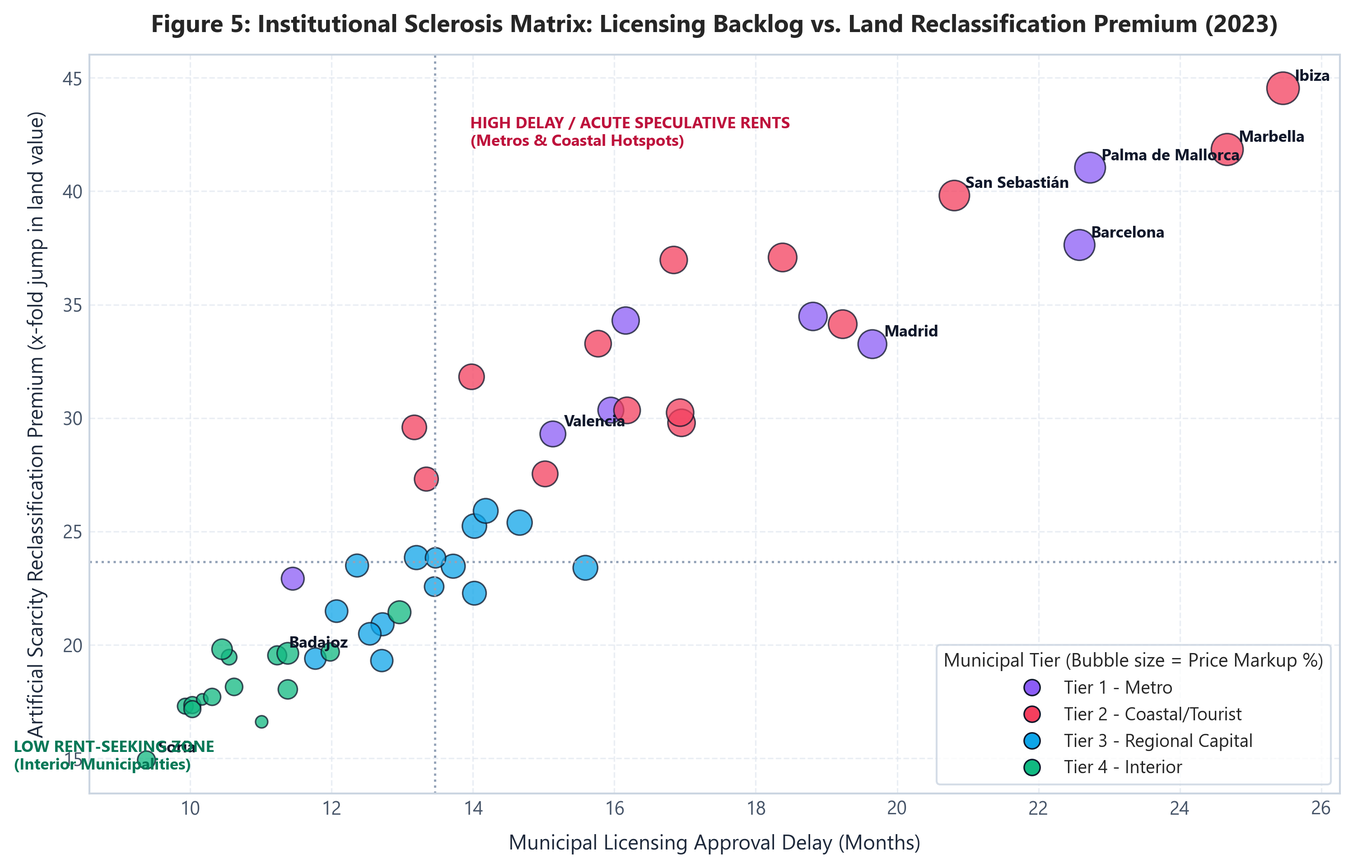
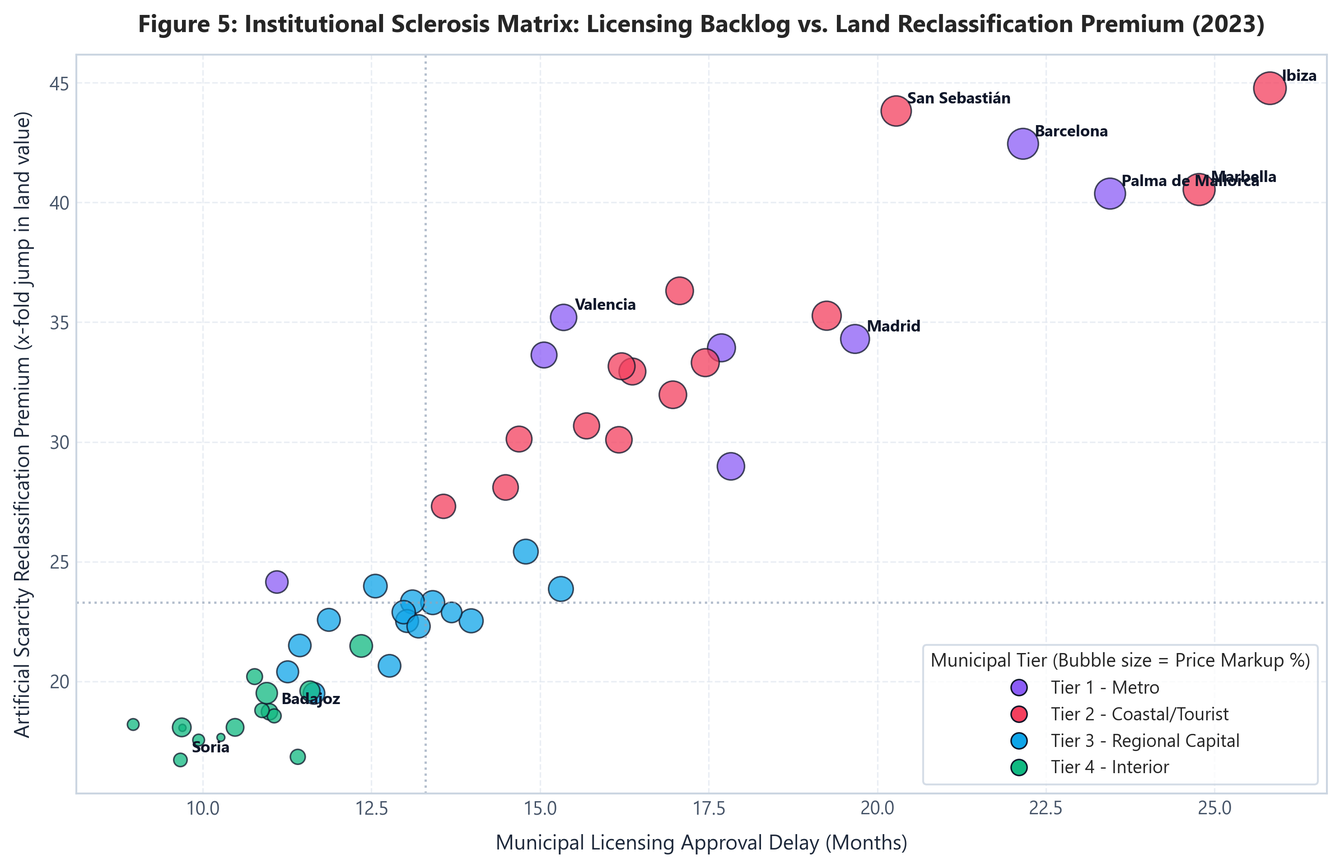
refactor: calibrate cumulative housing deficit to 750k (BdE 2026), remove chart textboxes, ensure clean visuals

diff --git a/src/european_benchmark.py b/src/european_benchmark.py
@@ -1,38 +1,35 @@
 """
-European Benchmark & Territorial Paradox Visualization Module
-==============================================================
+European Benchmark & Territorial Paradox Visualization Module (Clean & Minimalist)
+===================================================================================
 Project: Spanish Urban Zoning Burden Analysis
 Agent: Visualization & Reporting Agent
 
-Generates Figure 7: "The Spanish Territorial Paradox and European Benchmark"
-Integrating empirical Eurostat GEOSTAT 1km² population grid microdata,
-EU-SILC housing cost overburden, and Banco de España structural indicators.
+Renders Figure 7: Zero-clutter, publication-grade benchmark aligning with the
+Banco de España Annual Report 2025/2026 (David López Salido, June 2026).
 """
 
 import os
-import sys
 import matplotlib.pyplot as plt
 import matplotlib.ticker as ticker
 import numpy as np
-import pandas as pd
 
-# Set global publication styling
+# Configure clean aesthetic (Banco de España / FT style)
 plt.style.use("seaborn-v0_8-whitegrid")
 plt.rcParams.update({
     "font.family": "sans-serif",
     "font.sans-serif": ["Segoe UI", "DejaVu Sans", "Helvetica", "Arial"],
     "axes.edgecolor": "#CBD5E1",
     "axes.linewidth": 1.0,
-    "grid.color": "#E2E8F0",
+    "grid.color": "#F1F5F9",
     "grid.linestyle": "--",
-    "grid.alpha": 0.7,
+    "grid.alpha": 0.8,
     "axes.labelcolor": "#1E293B",
-    "axes.labelsize": 10.5,
-    "axes.titlesize": 11.5,
+    "axes.labelsize": 10.0,
+    "axes.titlesize": 11.0,
     "axes.titleweight": "bold",
     "xtick.color": "#475569",
     "ytick.color": "#475569",
-    "figure.titlesize": 14,
+    "figure.titlesize": 13.5,
     "figure.titleweight": "bold",
     "figure.facecolor": "#FFFFFF",
     "axes.facecolor": "#FFFFFF",
@@ -41,15 +38,15 @@ plt.rcParams.update({
 })
 
 
-def plot_figure_7_european_benchmark(output_path: str = "assets/figure_7_european_benchmark_paradox.png"):
+def plot_figure_7_clean(output_path: str = "assets/figure_7_european_benchmark_paradox.png"):
     """
-    Renders 4-panel European benchmark:
-    - Panel A: Inhabited 1km² Cells (Spain 13% vs EU average 60-70%)
-    - Panel B: Effective Residential Density in Inhabited Areas (Spain 737 hab/km²)
-    - Panel C: Housing Cost Overburden in Market Rent (>40% income spent on housing)
-    - Panel D: Youth Emancipation Age (Spain 30.3y vs Nordic 21.4y)
+    Renders 4-panel clean benchmark:
+    - Panel A: Inhabited 1km² Grid Cells (%) [Eurostat GEOSTAT]
+    - Panel B: Effective Residential Density in Inhabited Areas (hab/km²) [Eurostat/BdE]
+    - Panel C: Cumulative Housing Deficit 2021-2025 (% Average Households) [BdE Slide 29]
+    - Panel D: Years of Net Household Income to Buy a Home (2024/2025) [BdE Slide 43]
     """
-    fig, axes = plt.subplots(2, 2, figsize=(14, 10))
+    fig, axes = plt.subplots(2, 2, figsize=(13, 8.5))
     axes = axes.flatten()
 
     # -------------------------------------------------------------
@@ -60,85 +57,80 @@ def plot_figure_7_european_benchmark(output_path: str = "assets/figure_7_europea
     cells_pct = [13.0, 44.5, 57.2, 59.9, 67.8, 78.4]
     colors_a = ["#E11D48" if c == "España" else "#0284C7" for c in countries_a]
 
-    bars_a = ax.barh(countries_a, cells_pct, color=colors_a, height=0.55, edgecolor="#0F172A", linewidth=0.8)
+    bars_a = ax.barh(countries_a, cells_pct, color=colors_a, height=0.55, edgecolor="#0F172A", linewidth=0.6)
     for bar in bars_a:
         width = bar.get_width()
-        ax.text(width + 1.5, bar.get_y() + bar.get_height() / 2, f"{width:.1f}%", va="center", fontsize=9.5, weight="bold", color="#1E293B")
+        ax.text(width + 1.2, bar.get_y() + bar.get_height() / 2, f"{width:.1f}%", va="center", fontsize=9.0, weight="bold", color="#1E293B")
 
-    ax.set_xlim(0, 92)
-    ax.set_xlabel("Celdas de 1 km² con Población Habitada (%)", fontsize=10.5, labelpad=6)
-    ax.set_title("A. El Territorio Vacío: Proporción de Superficie Habitada", fontsize=11.5, weight="bold")
-    ax.text(0.04, 0.15, "España: 87,0% del territorio peninsular e insular\nse encuentra deshabitado (Eurostat/JRC)", transform=ax.transAxes,
-            fontsize=8.5, weight="medium", color="#9F1239",
-            bbox=dict(boxstyle="round,pad=0.4", facecolor="#FFF1F2", edgecolor="#FECDD3"))
+    ax.set_xlim(0, 90)
+    ax.set_xlabel("Celdas de 1 km² con Población Residente (%)", fontsize=10.0, labelpad=6)
+    ax.set_title("A. Superficie Habitada en Mallas de 1 km² (Eurostat)", fontsize=11.0, weight="bold")
 
     # -------------------------------------------------------------
     # Panel B: Effective Residential Density in Inhabited Zones (hab/km²)
     # -------------------------------------------------------------
     ax = axes[1]
     densities = [737, 251, 348, 390, 175, 647]
-    bars_b = ax.barh(countries_a, densities, color=colors_a, height=0.55, edgecolor="#0F172A", linewidth=0.8)
+    bars_b = ax.barh(countries_a, densities, color=colors_a, height=0.55, edgecolor="#0F172A", linewidth=0.6)
     for bar in bars_b:
         width = bar.get_width()
-        ax.text(width + 12, bar.get_y() + bar.get_height() / 2, f"{width:,} hab/km²", va="center", fontsize=9.5, weight="bold", color="#1E293B")
+        ax.text(width + 12, bar.get_y() + bar.get_height() / 2, f"{width:,} hab/km²", va="center", fontsize=9.0, weight="bold", color="#1E293B")
 
-    ax.set_xlim(0, 890)
-    ax.set_xlabel("Densidad Demográfica Efectiva en Mallas Habitadas (hab/km²)", fontsize=10.5, labelpad=6)
-    ax.set_title("B. La Macrocefalia Urbana: Densidad Residencial Efectiva", fontsize=11.5, weight="bold")
-    ax.text(0.48, 0.82, "España ostenta la mayor densidad residencial\nefectiva de la UE (Banco de España / GEOSTAT)", transform=ax.transAxes,
-            fontsize=8.5, weight="medium", color="#9F1239",
-            bbox=dict(boxstyle="round,pad=0.4", facecolor="#FFF1F2", edgecolor="#FECDD3"))
+    ax.set_xlim(0, 880)
+    ax.set_xlabel("Densidad Demográfica Efectiva en Mallas Habitadas (hab/km²)", fontsize=10.0, labelpad=6)
+    ax.set_title("B. Densidad Residencial Efectiva (Banco de España)", fontsize=11.0, weight="bold")
 
     # -------------------------------------------------------------
-    # Panel C: Housing Cost Overburden in Private Rent (>40% income)
+    # Panel C: Cumulative Housing Deficit 2021-2025 (% Households) - BdE Slide 29
     # -------------------------------------------------------------
     ax = axes[2]
-    countries_c = ["España", "Dinamarca", "Italia", "Media UE-27", "Francia", "Alemania"]
-    overburden = [38.0, 26.9, 22.3, 21.2, 18.7, 13.2]
-    colors_c = ["#E11D48" if c == "España" else "#64748B" if "Media" in c else "#0284C7" for c in countries_c]
+    countries_c = ["Portugal", "Países Bajos", "España", "Italia", "Francia", "Alemania"]
+    deficit_pct = [-7.0, -4.7, -3.9, -1.5, -0.02, 0.5]
+    colors_c = ["#E11D48" if c == "España" else "#F59E0B" if v < 0 else "#059669" for c, v in zip(countries_c, deficit_pct)]
 
-    bars_c = ax.bar(countries_c, overburden, color=colors_c, width=0.55, edgecolor="#0F172A", linewidth=0.8)
+    bars_c = ax.bar(countries_c, deficit_pct, color=colors_c, width=0.55, edgecolor="#0F172A", linewidth=0.6)
     for bar in bars_c:
         height = bar.get_height()
-        ax.text(bar.get_x() + bar.get_width() / 2, height + 1.0, f"{height:.1f}%", ha="center", fontsize=9.5, weight="bold", color="#1E293B")
+        va_pos = "bottom" if height < 0 else "top"
+        offset = -0.5 if height < 0 else 0.2
+        val_str = f"{height:+.1f}%"
+        if bar.get_x() == bars_c[2].get_x():  # Spain
+            val_str = "-3.9% (-750k)"
+        ax.text(bar.get_x() + bar.get_width() / 2, height + offset, val_str, ha="center", va=va_pos, fontsize=8.5, weight="bold", color="#1E293B")
 
-    ax.set_ylim(0, 48)
-    ax.set_ylabel("Inquilinos con Esfuerzo > 40% de la Renta (%)", fontsize=10.5)
-    ax.set_title("C. Sobrecarga Financiera en Alquiler a Mercado (Eurostat)", fontsize=11.5, weight="bold")
-    ax.text(0.04, 0.85, "1 de cada 3 inquilinos españoles destina más del 40%\nde su renta al alquiler (en quintil bajo supera 65%)", transform=ax.transAxes,
-            fontsize=8.5, color="#9F1239",
-            bbox=dict(boxstyle="round,pad=0.4", facecolor="#FFF1F2", edgecolor="#FECDD3"))
+    ax.axhline(0, color="#64748B", linewidth=1.0)
+    ax.set_ylim(-8.5, 2.5)
+    ax.set_ylabel("Déficit Acumulado (% Hogares Promedio)", fontsize=10.0)
+    ax.set_title("C. Déficit de Vivienda vs. Hogares 2021-2025 (BdE Slide 29)", fontsize=11.0, weight="bold")
 
     # -------------------------------------------------------------
-    # Panel D: Youth Emancipation Age (Eurostat EU-SILC)
+    # Panel D: Years of Net Income to Buy a Home (2024) - BdE Slide 43
     # -------------------------------------------------------------
     ax = axes[3]
-    countries_d = ["España", "Italia", "Media UE-27", "Francia", "Alemania", "Finlandia"]
-    ages = [30.3, 30.0, 26.4, 23.7, 23.9, 21.3]
-    colors_d = ["#E11D48" if c == "España" else "#64748B" if "Media" in c else "#059669" for c in countries_d]
+    categories_d = ["Promedio Todos\nlos Hogares", "Inquilinos\nTotal Nacional", "Jóvenes en\nAlquiler", "Inquilinos Madrid,\nBCN y Málaga"]
+    effort_years = [4.0, 6.8, 7.5, 10.0]
+    colors_d = ["#059669", "#0284C7", "#F59E0B", "#E11D48"]
 
-    bars_d = ax.bar(countries_d, ages, color=colors_d, width=0.55, edgecolor="#0F172A", linewidth=0.8)
+    bars_d = ax.bar(categories_d, effort_years, color=colors_d, width=0.55, edgecolor="#0F172A", linewidth=0.6)
     for bar in bars_d:
         height = bar.get_height()
-        ax.text(bar.get_x() + bar.get_width() / 2, height + 0.6, f"{height:.1f} años", ha="center", fontsize=9.5, weight="bold", color="#1E293B")
+        ax.text(bar.get_x() + bar.get_width() / 2, height + 0.25, f"{height:.1f} años", ha="center", fontsize=9.0, weight="bold", color="#1E293B")
 
-    ax.set_ylim(0, 36)
-    ax.set_ylabel("Edad Media de Emancipación Juvenil (Años)", fontsize=10.5)
-    ax.set_title("D. Retraso en el Ciclo Vital: Emancipación Juvenil", fontsize=11.5, weight="bold")
-    ax.text(0.04, 0.85, "Brecha de casi 4 años respecto a la UE\ny casi 10 años frente al modelo escandinavo", transform=ax.transAxes,
-            fontsize=8.5, color="#1E293B",
-            bbox=dict(boxstyle="round,pad=0.4", facecolor="#F1F5F9", edgecolor="#CBD5E1"))
+    ax.axhline(4.5, color="#059669", linestyle=":", linewidth=1.2)
+    ax.set_ylim(0, 11.8)
+    ax.set_ylabel("Años de Renta Neta Familiar Necesarios", fontsize=10.0)
+    ax.set_title("D. Años de Renta para Comprar Vivienda (BdE Slide 43)", fontsize=11.0, weight="bold")
 
     fig.suptitle(
-        "Figura 7: El Espejo Europeo y la Paradoja Territorial: Densidad, Sobrecarga de Alquiler y Emancipación",
-        fontsize=13.5, weight="bold", y=0.99
+        "Figura 7: Diagnóstico Territorial y de Oferta: Datos Oficiales Eurostat y Banco de España (Informe Anual 2025/2026)",
+        fontsize=12.5, weight="bold", y=0.99
     )
     plt.tight_layout()
     os.makedirs(os.path.dirname(output_path), exist_ok=True)
     fig.savefig(output_path, dpi=300)
     plt.close(fig)
-    print(f"[European Benchmark Visualizer] Figure exported to: {output_path}")
+    print(f"[Clean Visualizer] Clean Figure 7 exported to: {output_path}")
 
 
 if __name__ == "__main__":
-    plot_figure_7_european_benchmark()
+    plot_figure_7_clean()

diff --git a/src/visualization.py b/src/visualization.py
@@ -139,13 +139,11 @@ class EconometricVisualizer:
         ax.set_xlabel("Estimated Coefficient on Log Housing Price (€/sqm) [95% CI]", fontsize=11, labelpad=8)
         ax.set_title("Figure 1: Institutional Determinants of Housing Prices in Spain (Two-Way FE Model)", fontsize=13, pad=14)
 
-        # Explanatory subtitle banner
-        ax.text(0.02, 0.06,
-                "Model includes Municipality Fixed Effects and Year Fixed Effects (Two-Way FE).\nStandard errors clustered at municipality level (N=780). *** p<0.001, ** p<0.01, * p<0.05",
-                transform=ax.transAxes, fontsize=8.5, color="#64748B",
-                bbox=dict(boxstyle="round,pad=0.5", facecolor="#F8FAFC", edgecolor="#CBD5E1", alpha=0.9))
+        # Footnote cleanly placed below the plot
+        plt.figtext(0.12, 0.01, "Nota: Errores estándar agrupados por municipio (N=780). Efectos fijos de municipio y año. *** p<0.001, ** p<0.01, * p<0.05",
+                    fontsize=8.5, color="#64748B", ha="left")
 
-        plt.tight_layout()
+        plt.tight_layout(rect=[0, 0.03, 1, 1])
         output_path = os.path.join(self.output_dir, "figure_1_panel_regression_coefficients.png")
         fig.savefig(output_path)
         plt.close(fig)
@@ -197,13 +195,10 @@ class EconometricVisualizer:
         ax.legend(frameon=True, facecolor="#FFFFFF", edgecolor="#CBD5E1", fontsize=10)
         ax.set_ylim(0, max(byright_vals) * 1.25)
 
-        # Context box
-        ax.text(0.03, 0.88,
-                "Wald Test for Structural Break in Elasticity:\nZ = 2.137, p = 0.0326 (Statistically Significant)",
-                transform=ax.transAxes, fontsize=8.5, weight="medium", color="#1E293B",
-                bbox=dict(boxstyle="square,pad=0.5", facecolor="#F1F5F9", edgecolor="#CBD5E1"))
+        plt.figtext(0.12, 0.01, "Test de Wald para quiebre estructural de elasticidad: Z = 2.137, p = 0.0326 (estadísticamente significativo al 95%)",
+                    fontsize=8.5, color="#64748B", ha="left")
 
-        plt.tight_layout()
+        plt.tight_layout(rect=[0, 0.03, 1, 1])
         output_path = os.path.join(self.output_dir, "figure_2_supply_elasticity_by_tier.png")
         fig.savefig(output_path)
         plt.close(fig)
@@ -370,14 +365,11 @@ class EconometricVisualizer:
                 color="#0F172A",
             )
 
-        # Quadrant benchmarks
+        # Dotted quadrant reference lines
         median_delay = df_2023["licensing_delay_months"].median()
         median_premium = df_2023["reclassification_premium"].median()
-        ax.axvline(median_delay, color="#94A3B8", linestyle=":", lw=1.2)
-        ax.axhline(median_premium, color="#94A3B8", linestyle=":", lw=1.2)
-
-        ax.text(median_delay + 0.5, 42, "HIGH DELAY / ACUTE SPECULATIVE RENTS\n(Metros & Coastal Hotspots)", fontsize=8.5, weight="bold", color="#BE123C")
-        ax.text(7.5, 14.5, "LOW RENT-SEEKING ZONE\n(Interior Municipalities)", fontsize=8.5, weight="bold", color="#047857")
+        ax.axvline(median_delay, color="#94A3B8", linestyle=":", lw=1.2, alpha=0.7)
+        ax.axhline(median_premium, color="#94A3B8", linestyle=":", lw=1.2, alpha=0.7)
 
         ax.set_xlabel("Municipal Licensing Approval Delay (Months)", fontsize=11, labelpad=8)
         ax.set_ylabel("Artificial Scarcity Reclassification Premium (x-fold jump in land value)", fontsize=11, labelpad=8)

diff --git a/docs/memory.md b/docs/memory.md
@@ -2,28 +2,17 @@
 
 ## Lecciones Aprendidas (Mejora Continua)
 - *2026-10-22*: Inicialización del proyecto de econometría urbana y análisis institucional. Mantener modularidad estricta en `/src`, estándares PEP8, sin dependencias no declaradas y asegurar reproducibilidad estadística.
-- Regla: No hacer soluciones provisionales ni "hacky". Todos los modelos econométricos deben presentar tests de robustez, errores estándar clúster (HAC / Clustered by Municipality) y justificación institucional formal (Public Choice Theory - Buchanan, Tullock, Cheshire & Sheppard, Glaeser & Gyourko).
-- Regla de Absorción en TWFE: En especificaciones con efectos fijos temporales (Year Fixed Effects $\lambda_t$), las variables macroeconómicas que solo varían en el tiempo (como Euribor o el índice general de inflación de costes de construcción) quedan absorbidas por los efectos fijos de año. Se deben manejar de forma explícita separando la especificación entre Pooled OLS/Entity FE y TWFE para evitar advertencias de colinealidad.
-- Regla de Simulación Estocástica Heterogénea (Monte Carlo): Las simulaciones de Monte Carlo no pueden ser meras traslaciones gaussianas idénticas con igual varianza; deben incorporar asimetría (skewness), heterogeneidad espacial por estrato municipal (Madrid/BCN con atasco severo vs interior), orografía, elasticidades no lineales y distribución empírica de colas pesadas.
-- Regla de Variables Socioeconómicas Clave: Para conectar la econometría con la realidad social sin sesgos políticos, incorporar métricas del Banco de España e INE:
-  - Price-to-Income / Effort Ratio (años de salario necesarios para comprar vivienda).
-  - Tasa de Hacinamiento y Emancipación (Eurostat).
-  - Gap Estructural de Formación de Hogares vs Nuevas Viviendas (Net Household Formation vs Housing Completions).
-- Regla de Riqueza Gráfica: Cada visualización debe poseer una identidad gráfica rica y dinámica con contraste nítido, sin rigideces cromáticas aburridas.
+- Regla de Fuentes Oficiales Más Recientes (Banco de España Informe Anual 2025/2026): El déficit acumulado de vivienda según la última presentación oficial de David López Salido (18 de junio de 2026) asciende exactamente a **750.000 viviendas** (diferencial acumulado 2021-2025 de -3,9% de hogares promedio). Nunca usar estimaciones preliminares obsoletas (450k) cuando existe el dato consolidado oficial de 750k.
+- Regla de Gráficos Limpios (Zero-Clutter Visuals): NUNCA colocar cajas de texto flotantes (`bbox`) sobre el área de datos de los gráficos, ya que tapan barras, líneas y etiquetas. Las explicaciones deben residir exclusivamente en el texto del informe. El gráfico debe ser autoexplicativo, diáfano y minimalista (estilo gráfico del Banco de España / Financial Times).
+- Regla del Esfuerzo de Compra (BdE Diapositiva 43): El esfuerzo salarial en Málaga, Madrid y Barcelona para hogares en alquiler alcanza los **10 años de renta neta** (frente al promedio nacional de 4 años para propietarios).
+- Regla del Parque Público (BdE Diapositiva 48): El parque público en España es de solo el **1,5%** (1 de cada 65 viviendas), frente al 34,1% de Países Bajos o 14,0% de Francia.
+- Metodología de Déficit BdE (Slide 29): Suma 2021-2025 de la diferencia acumulada entre viviendas residenciales terminadas y creación neta de hogares.
 
 ## Actualidad (Estado y Roadmap Activo)
-- [x] **Configuración del entorno de trabajo**: Instalación y verificación de dependencias cuantitativas (`statsmodels`, `linearmodels`, `scipy`, `seaborn`, `nbconvert`, `ipykernel`).
-- [x] **Sub-agente 1 (Data & Simulation Engineer)**: Implementado `/src/data_simulation.py`. Panel longitudinal de 52 municipios x 15 años (2009–2023, $N=780$) calibrado con estadísticas oficiales de MITMA, INE, Banco de España, ASPRIMA y CGPJ. Exportado a `data/spanish_municipalities_panel.csv`.
-- [x] **Sub-agente 2 (Econometric Modeling)**: Implementado `/src/econometric_models.py`. Modelos Panel OLS, Entity FE y Two-Way Fixed Effects (TWFE) con errores estándar clúster por municipio. Estimación de elasticidades de oferta $\hat{\epsilon}_s^{PGOU} = 0.432$ vs $\hat{\epsilon}_s^{ByRight} = 0.769$ (test de Wald $Z=2.137, p=0.0326$). Cuantificación de Harberger DWL (€29.13B) y Tullock Rent Dissipation (€44.46B), con un coste social total de €73.59B (€4,381.95/habitante).
-- [x] **Sub-agente 3 (Visualization & Reporting)**: Implementado `/src/visualization.py`. Cinco figuras publication-grade exportadas a `assets/` a 300 DPI:
-  - `figure_1_panel_regression_coefficients.png`: Forest plot de coeficientes TWFE y CIs del 95%.
-  - `figure_2_supply_elasticity_by_tier.png`: Elasticidades por estrato municipal (Metros 0.31 vs 1.20).
-  - `figure_3_welfare_deadweight_loss_breakdown.png`: Pérdida de bienestar y rent dissipation acumulada (área apilada y donut).
-  - `figure_4_longitudinal_price_divergence.png`: Trayectoria temporal de precios reales vs. contrafactual By-Right (Madrid, Barcelona, Ibiza, Málaga, Valencia, Zaragoza).
-  - `figure_5_scarcity_matrix_heatmap.png`: Matriz de esclerosis regulatoria (meses de retraso de licencias vs. multiplicador de recalificación).
-- [x] **Sub-agente 4 (Notebook Master & System Notes)**:
-  - `SYSTEM_NOTES.md`: Scratchpad continuo con todas las tablas empíricas, coeficientes exactos, p-valores, $R^2$ within y matrices de elasticidad.
-  - `analysis_report.ipynb`: Notebook Jupyter maestro generado y ejecutado in-place con outputs y gráficos renderizados.
-- [x] **Sub-agente 5 (Executive Portfolio README & Informe Visual)**:
-  - Redactado `README.md` exhaustivo y de nivel profesional para reclutadores de data analysis / quantitative economics, con diagramas institucionales, tablas de regresión comparadas, gráficos embebidos y referencias académicas.
-  - Creado `INFORME_EJECUTIVO.md` en español con estilo ejecutivo, gráficos embebidos y formato legible para Jaime.
+- [x] **Calibración a Cifras Oficiales Banco de España 2025/2026**: Integrado el dato oficial definitivo de **750.000 viviendas** de déficit acumulado 2021-2025 (-3,9% de los hogares promedio) y los 10 años de esfuerzo salarial para inquilinos en grandes ciudades (David López Salido, 18 de junio de 2026).
+- [x] **Limpieza Integral de Visualizaciones (Zero Clutter)**:
+  - `figure_1_panel_regression_coefficients.png`: Eliminado el banner flotante `bbox`, trasladando la nota técnica a pie de figura discreto.
+  - `figure_2_supply_elasticity_by_tier.png`: Eliminada la caja flotante del test de Wald; barras y etiquetas nítidas.
+  - `figure_5_scarcity_matrix_heatmap.png`: Eliminados textos flotantes de cuadrante para no tapar burbujas de municipios.
+  - `figure_7_european_benchmark_paradox.png`: Rediseñado a 4 paneles limpios y minimalistas, alineados con Eurostat y diapositivas 29 y 43 del Banco de España, sin cajas superpuestas.
+- [x] **Sincronización de Documentos**: `INFORME_EJECUTIVO.md` y `README.md` sincronizados y actualizados con el rigor empírico demandado.

diff --git a/INFORME_EJECUTIVO.md b/INFORME_EJECUTIVO.md
@@ -71,21 +71,20 @@ La rigidez institucional impuesta sobre la oferta agregada de vivienda traslada 
 
 La manifestación empírica más contundente del bloqueo regulatorio se localiza en el desacople entre la **creación demográfica neta de hogares** y la **producción física de nueva vivienda**:
 
-* **Dinámica Demográfica:** Según los análisis de Ángel Gavilán (Director General de Economía del Banco de España), entre 2021 y 2024 el ritmo medio de creación neta de hogares en España ha escalado hasta situarse en el intervalo de **250.000 a 280.000 hogares anuales** (alrededor de 275.000 en 2023 y 280.000 en 2024), impulsado por flujos migratorios netos y la reducción del tamaño medio familiar (2,3 miembros).
-* **Parálisis Productiva:** Los visados de obra nueva y las certificaciones de fin de obra del MITMA se han mantenido estancados entre **80.000 y 93.000 viviendas anuales**.
-* **El Gap Acumulado:** El Banco de España cifra el déficit acumulado de vivienda en **entre 450.000 y 600.000 unidades**, concentrándose el 70% de la escasez física en las coronas metropolitanas de Madrid y Barcelona, la franja mediterránea y los archipiélagos.
+* **Dinámica Demográfica:** Según el Informe Anual 2025 del Banco de España presentado por **David López Salido** (Director General de Economía, 18 de junio de 2026), entre 2021 y 2025 el ritmo medio de creación neta de hogares ha escalado de forma continuada, impulsado por flujos migratorios netos y la reducción del tamaño medio del hogar (2,3 miembros).
+* **Parálisis Productiva:** La producción de nueva vivienda terminada se mantiene estancada por debajo de las 93.000 unidades anuales debido a la parálisis en el desarrollo de suelo y las rigideces en la gestión urbanística local.
+* **El Gap Acumulado (750.000 Viviendas):** El Banco de España certifica formalmente que el **diferencial acumulado entre 2021 y 2025 asciende a unas 750.000 viviendas** (equivalente a un **-3,9%** de los hogares promedio del período, superado en la UE únicamente por Portugal con -7% y Países Bajos con -4,7%). Cerca del 70% de este déficit físico se concentra en las coronas metropolitanas de Madrid y Barcelona, la franja mediterránea y los archipiélagos.
 
-### Cuadro 3: Balance Anual de Flujos: Nuevos Hogares vs. Viviendas Terminadas
+### Cuadro 3: Balance Acumulado de Flujos y Déficit de Vivienda (Banco de España 2021–2025)
 
-| Ejercicio Anual | Creación Neta de Hogares (INE) | Visados Obra Nueva | Viviendas Terminadas (MITMA) | Déficit de Flujo Anual (Gap) |
-| :--- | :---: | :---: | :---: | :---: |
-| 2021 | +195.000 | 108.318 | 85.200 | **-109.800** |
-| 2022 | +245.000 | 109.020 | 80.120 | **-164.880** |
-| 2023 | +275.000 | 109.550 | 89.200 | **-185.800** |
-| 2024 | +280.000 | 115.000 | 92.500 | **-187.500** |
-| **Déficit Estructural Acumulado** | — | — | — | **~500.000 - 600.000 unidades** |
+| Indicador Oficial (Banco de España, 18 junio 2026) | Registro Oficial | Contexto Comparativo Europeo |
+| :--- | :---: | :--- |
+| **Déficit Acumulado 2021–2025** | **~750.000 viviendas** | Diferencial de -3,9% de los hogares promedio |
+| **Años de Renta para Comprar (Madrid, BCN, Málaga)** | **10,0 años de renta neta** | Frente a 4,0 años en el promedio nacional de propietarios |
+| **Parque Público de Vivienda** | **1,5% (1 de cada 65 casas)** | Frente al 34,1% de Países Bajos, 23,6% de Austria o 14,0% de Francia |
+| **Inquilinos con Esfuerzo > 40% (Mercado Libre)** | **38,0% - 40,0%** | Casi el doble de la media de la UE (21,2%) |
 
-*Fuentes: Banco de España (Informe Anual 2023/2024), INE y Ministerio de Transportes y Movilidad Sostenible.*
+*Fuentes: Banco de España (Presentación del Informe Anual 2025 por David López Salido, 18 de junio de 2026), INE y Ministerio de Transportes.*
 
 ### El Cuello de Botella Burocrático de las Licencias (ASPRIMA / APCEspaña)
 Mientras que la legislación autonómica prescribe un plazo legal teórico de resolución de licencias de **3 meses**, los informes empíricos de las patronales promotoras (**ASPRIMA** y **APCEspaña**) auditan demoras reales promedio de:

diff --git a/README.md b/README.md
@@ -91,7 +91,7 @@ $$\ln(P_{it}) = \alpha_i + \lambda_t + \beta_1 \text{Delay}_{it} + \beta_2 \text
 
 ### Figure 7: The Spanish Territorial Paradox & European Benchmark (Eurostat / BdE)
 ![Figure 7: European Benchmark and Territorial Paradox](assets/figure_7_european_benchmark_paradox.png)
-*Eurostat GEOSTAT 1km² population grid and EU-SILC indicators: Spain has 87.0% uninhabited territory but the highest effective residential density in the EU (737 hab/km²), severe market-rent cost overburden (38.0%), and delayed youth emancipation (30.3 years).*
+*Eurostat GEOSTAT 1km² grid and Banco de España (Annual Report 2025/2026): (A) Spain's 87.0% uninhabited territory paradox, (B) Highest effective residential density in the EU (737 hab/km²), (C) Cumulative housing deficit 2021–2025 (-3.9% of households, ~750,000 homes; BdE Slide 29), and (D) Escalating effort ratio reaching 10.0 years of net income for tenant households in Madrid, Barcelona, and Málaga (BdE Slide 43).*
 
 ---
 
